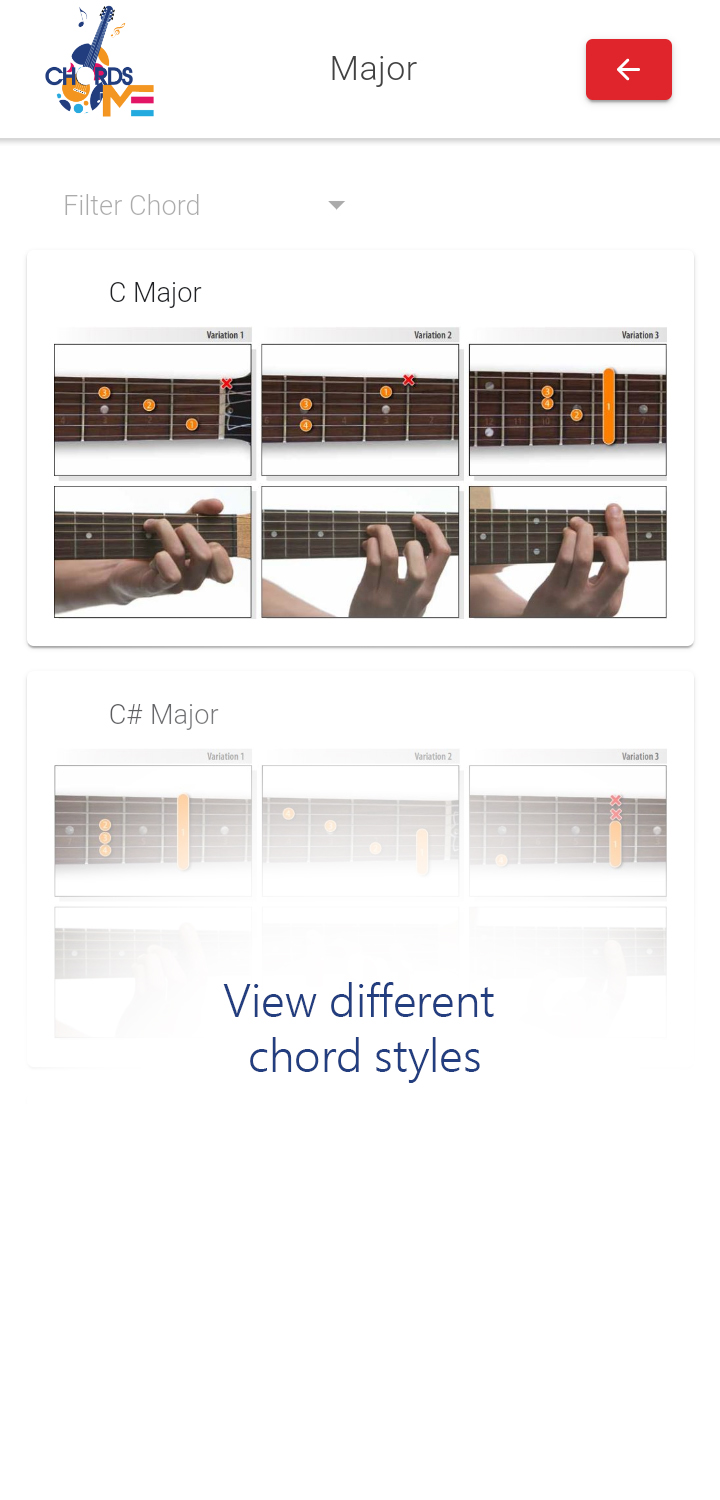
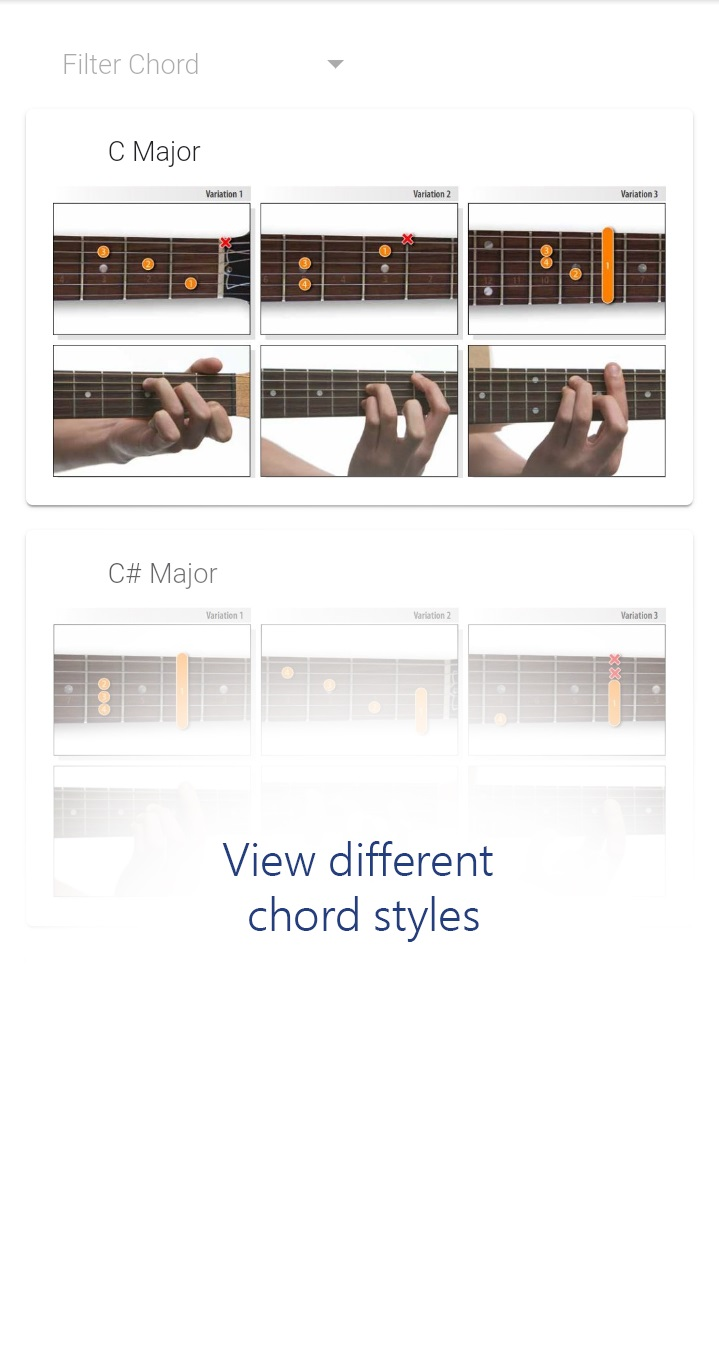
Update release

diff --git a/src/app/services/add-mob.service.ts b/src/app/services/add-mob.service.ts
@@ -1,44 +1,61 @@
-import { Injectable } from '@angular/core';
-import { AdMobFree, AdMobFreeBannerConfig, AdMobFreeInterstitialConfig, AdMobFreeRewardVideoConfig } from '@ionic-native/admob-free/ngx';
+import {Injectable} from '@angular/core';
+import {AdMobFree, AdMobFreeBannerConfig, AdMobFreeInterstitialConfig, AdMobFreeRewardVideoConfig} from '@ionic-native/admob-free/ngx';
 
 @Injectable({
-  providedIn: 'root'
+    providedIn: 'root'
 })
 export class AddMobService {
 
-  constructor(private adMob: AdMobFree) { }
+    constructor(private adMob: AdMobFree) {
+    }
 
-  bannerAdd() {
-    const bannerConfig: AdMobFreeBannerConfig = {
-      isTesting: false,
-      autoShow: true
-    };
-    this.adMob.banner.config(bannerConfig);
-    this.adMob.banner.prepare()
-        .then(() => {
-        }).catch(() => {
-    });
-  }
-  interstitialAdd() {
-    const interstitialConfig: AdMobFreeInterstitialConfig = {
-      isTesting: false,
-      autoShow: true
-    };
-    this.adMob.interstitial.config(interstitialConfig);
-    this.adMob.interstitial.prepare()
-        .then(() => {
-        }).catch(() => {
-    });
-  }
-  rewardVideoAdd() {
-    const rewardVideoConfig: AdMobFreeRewardVideoConfig = {
-      isTesting: false,
-      autoShow: true
-    };
-    this.adMob.rewardVideo.config(rewardVideoConfig);
-    this.adMob.rewardVideo.prepare()
-        .then(() => {
-        }).catch(() => {
-    });
-  }
+    bannerAdd() {
+        const bannerConfig: AdMobFreeBannerConfig = {
+            isTesting: false,
+            autoShow: true
+        };
+        this.adMob.banner.config(bannerConfig);
+        this.adMob.banner.prepare()
+            .then(() => {
+            }).catch(() => {
+        });
+        this.adMob.banner.show()
+            .then(() => {
+            }).catch(() => {
+        });
+    }
+
+    interstitialAdd() {
+        const interstitialConfig: AdMobFreeInterstitialConfig = {
+            id: 'ca-app-pub-5644153964390331/9670048916',
+            isTesting: false,
+            autoShow: true
+        };
+        this.adMob.interstitial.config(interstitialConfig);
+        this.adMob.interstitial.prepare()
+            .then(() => {
+                this.adMob.interstitial.show()
+                    .then(() => {
+                    }).catch(() => {
+                });
+            }).catch(() => {
+        });
+    }
+
+    rewardVideoAdd() {
+        const rewardVideoConfig: AdMobFreeRewardVideoConfig = {
+            id: 'ca-app-pub-5644153964390331/6649133907',
+            isTesting: false,
+            autoShow: true
+        };
+        this.adMob.rewardVideo.config(rewardVideoConfig);
+        this.adMob.rewardVideo.prepare()
+            .then(() => {
+                this.adMob.rewardVideo.show()
+                    .then(() => {
+                    }).catch(() => {
+                });
+            }).catch(() => {
+        });
+    }
 }

diff --git a/src/app/app.module.ts b/src/app/app.module.ts
@@ -13,7 +13,7 @@ import {AngularFireModule} from '@angular/fire';
 import {AngularFirestoreModule} from '@angular/fire/firestore';
 import {environment} from '../environments/environment';
 import {BrowserAnimationsModule} from '@angular/platform-browser/animations';
-import {MatButtonModule, MatCardModule, MatDialogModule} from '@angular/material';
+import {MatButtonModule, MatCardModule, MatDialogModule, MatIconModule} from '@angular/material';
 import {ProgressDialogComponent} from './shared/progress-dialog/progress-dialog.component';
 import {LessonChordComponent} from './shared/lesson-chord/lesson-chord.component';
 import {FlexModule} from '@angular/flex-layout';
@@ -21,10 +21,11 @@ import {FormsModule} from '@angular/forms';
 import {HttpClientModule} from '@angular/common/http';
 import {NgImageFullscreenViewModule} from 'ng-image-fullscreen-view';
 import { AdMobFree } from '@ionic-native/admob-free/ngx';
+import {ZoomComponent} from './shared/chord/zoom/zoom.component';
 
 @NgModule({
-  declarations: [AppComponent, ChordComponent, ProgressDialogComponent, LessonChordComponent],
-  entryComponents: [ChordComponent, ProgressDialogComponent, LessonChordComponent],
+  declarations: [AppComponent, ChordComponent, ProgressDialogComponent, LessonChordComponent, ZoomComponent],
+  entryComponents: [ChordComponent, ProgressDialogComponent, LessonChordComponent, ZoomComponent],
     imports: [BrowserModule,
         BrowserAnimationsModule,
         IonicModule.forRoot(),
@@ -34,7 +35,7 @@ import { AdMobFree } from '@ionic-native/admob-free/ngx';
         MatButtonModule,
         HttpClientModule,
         NgImageFullscreenViewModule,
-        AppRoutingModule, MatCardModule, FlexModule, FormsModule],
+        AppRoutingModule, MatCardModule, FlexModule, FormsModule, MatIconModule],
   providers: [
     StatusBar,
     SplashScreen,

diff --git a/src/app/shared/chord/chord.component.ts b/src/app/shared/chord/chord.component.ts
@@ -3,6 +3,8 @@ import {ModalController} from '@ionic/angular';
 import {Chord} from '../../model/chord';
 import {NotificationService} from '../../services/notification.service';
 import {AddMobService} from '../../services/add-mob.service';
+import {ZoomComponent} from './zoom/zoom.component';
+import {ZoomService} from '../../services/zoom.service';
 
 @Component({
   selector: 'app-chord',
@@ -13,22 +15,16 @@ export class ChordComponent implements OnInit {
 
   constructor(private modalController: ModalController,
               private adMobService: AddMobService,
-              private notifyService: NotificationService) { }
+              public zoomService: ZoomService,
+              private notifyService: NotificationService) {}
   keys = ['Ab', 'A', 'Bb', 'B', 'C', 'C#', 'D', 'Eb', 'E', 'F', 'F#', 'G'];
-  size = 13;
   chords: Chord;
   @Input() data: Chord;
-  ngOnInit() {
+  async ngOnInit() {
     if (this.data) {
       this.chords = this.data;
     }
-  }
-  zoomIn() {
-    this.size += 1;
-  }
-  zoomOut() {
-    this.size -= 1;
-    this.adMobService.interstitialAdd();
+    this.onZoomLoad();
   }
 
   goBack() {
@@ -51,5 +47,15 @@ export class ChordComponent implements OnInit {
   transposeTo(key) {
     this.adMobService.interstitialAdd();
     this.notifyService.info('Transpose will coming soon!');
+  }
+
+  async onZoomLoad() {
+    const modal = await this.modalController.create({
+      component: ZoomComponent,
+      cssClass: 'zoom-dialog'
+    });
+    modal.onDidDismiss().then(data => {
+    });
+    return await modal.present();
   }
 }

diff --git a/src/app/shared/chord/chord.component.html b/src/app/shared/chord/chord.component.html
@@ -6,22 +6,18 @@
 <ion-content class="ion-padding">
   <ion-list>
     <ion-item>
-      <pre [ngStyle]="{ 'font-size': (size+'px'), 'font-weight': 'bold' }">
+      <pre [ngStyle]="{ 'font-size': (this.zoomService.size+'px'), 'font-weight': 'bold' }">
 Song : {{chords?.song}}
 Artist : {{chords?.singer}}
 Key : {{chords?.key}}
 Beat : {{chords?.beat}}
 
 Transpose : <button (click)="transposeTo(key)" [ngClass]="checkKey(key) ? 'highlight' : 'not-highlight'"
-                    [ngStyle]="{ 'font-size': (size+'px') }" color="warning" *ngFor="let key of keys">{{key}}</button>
+                    [ngStyle]="{ 'font-size': (this.zoomService.size+'px') }" color="warning" *ngFor="let key of keys">{{key}}</button>
       </pre>
     </ion-item>
-    <ion-item>
-      <ion-button color="ternary" (click)="zoomOut()"><ion-icon color="danger" name="remove"></ion-icon></ion-button>
-      <ion-button color="ternary" (click)="zoomIn()"><ion-icon color="warning" name="add"></ion-icon></ion-button>
-    </ion-item>
-    <ion-item>
-      <pre [ngStyle]="{ 'font-size': (size+'px') }">
+    <ion-item (click)="onZoomLoad()">
+      <pre [ngStyle]="{ 'font-size': (this.zoomService.size+'px') }">
         {{chords?.chords}}
       </pre>
     </ion-item>

diff --git a/src/app/shared/chord/zoom/zoom.component.ts b/src/app/shared/chord/zoom/zoom.component.ts
@@ -1,0 +1,39 @@
+import { Component, OnInit } from '@angular/core';
+import {MatIconRegistry} from '@angular/material';
+import {DomSanitizer} from '@angular/platform-browser';
+import {ZoomService} from '../../../services/zoom.service';
+import {AddMobService} from '../../../services/add-mob.service';
+
+@Component({
+  selector: 'app-zoom',
+  templateUrl: './zoom.component.html',
+  styleUrls: ['./zoom.component.scss'],
+})
+export class ZoomComponent implements OnInit {
+
+  constructor(private iconRegistry: MatIconRegistry,
+              public zoomService: ZoomService,
+              public adMobService: AddMobService,
+              private sanitizer: DomSanitizer) {
+    iconRegistry.addSvgIcon(
+        'plus',
+        sanitizer.bypassSecurityTrustResourceUrl('assets/icons/zoom_in-24px.svg'));
+    iconRegistry.addSvgIcon(
+        'minus',
+        sanitizer.bypassSecurityTrustResourceUrl('assets/icons/zoom_out-24px.svg'));
+  }
+
+  ngOnInit() {
+  }
+
+  zoomIn() {
+    this.zoomService.size += 1;
+  }
+  zoomOut() {
+    this.zoomService.size -= 1;
+  }
+  onAdd() {
+    this.adMobService.interstitialAdd();
+  }
+
+}

diff --git a/src/app/instruction/instruction.page.html b/src/app/instruction/instruction.page.html
@@ -1,3 +1,26 @@
+<ion-header>
+    <ion-toolbar>
+        <ion-title>
+            <div fxLayout="row">
+                <div fxFlex="20%">
+                    <img src="assets/images/logo2.png" width="80">
+                </div>
+
+                <div fxFlex="80%">
+                    <div fxLayout="row">
+                        <div fxFlex="80%" style="margin-top: 30px; text-align: center;">
+                            Instructions
+                        </div>
+                        <div fxFlex="20%" style="margin-top: 20px;">
+                            <ion-button color="warning" (click)="goToMain()"><ion-icon name="home"></ion-icon> </ion-button>
+                        </div>
+                    </div>
+                </div>
+            </div>
+        </ion-title>
+    </ion-toolbar>
+</ion-header>
+
 <ion-content [fullscreen]="true" #span>
     <ion-slides pager (ionSlideDidChange)="slideChanged()">
         <ion-slide>

diff --git a/src/app/home/home.page.html b/src/app/home/home.page.html
@@ -25,7 +25,7 @@
                 <img src="assets/images/slides/slide1.jpg" alt=""/>
             </ion-slide>
             <ion-slide>
-                <img src="assets/images/slides/slide6.jpg" alt=""/>
+                <img src="assets/images/slides/slide9.jpg" alt=""/>
             </ion-slide>
             <ion-slide>
                 <img src="assets/images/slides/slide3.jfif" alt=""/>
@@ -43,4 +43,6 @@
         </ion-card-content>
     </ion-card>
     <img (click)="onAdMob()" #img src="assets/images/logo2.png" class="img">
+    <ion-infinite-scroll scrollX="true" scrollY="true">
+    </ion-infinite-scroll>
 </ion-content>

diff --git a/src/app/instruction/instruction.module.ts b/src/app/instruction/instruction.module.ts
@@ -7,14 +7,16 @@ import { IonicModule } from '@ionic/angular';
 import { InstructionPageRoutingModule } from './instruction-routing.module';
 
 import { InstructionPage } from './instruction.page';
+import {FlexModule} from '@angular/flex-layout';
 
 @NgModule({
-  imports: [
-    CommonModule,
-    FormsModule,
-    IonicModule,
-    InstructionPageRoutingModule
-  ],
+    imports: [
+        CommonModule,
+        FormsModule,
+        IonicModule,
+        InstructionPageRoutingModule,
+        FlexModule
+    ],
   declarations: [InstructionPage]
 })
 export class InstructionPageModule {}

diff --git a/src/app/instruction/instruction.page.ts b/src/app/instruction/instruction.page.ts
@@ -33,4 +33,9 @@ export class InstructionPage implements OnInit {
         localStorage.setItem('isFirst', 'n');
         this.navCtrl.navigateRoot('main/tabs/home');
     }
+
+    goToMain() {
+        localStorage.setItem('isFirst', 'n');
+        this.navCtrl.navigateRoot('main/tabs/home');
+    }
 }

diff --git a/src/app/services/zoom.service.ts b/src/app/services/zoom.service.ts
@@ -1,0 +1,17 @@
+import { Injectable } from '@angular/core';
+
+@Injectable({
+  providedIn: 'root'
+})
+export class ZoomService {
+
+  private zoom = 13;
+  constructor() { }
+
+  get size() {
+    return this.zoom;
+  }
+  set size(num: number) {
+    this.zoom = num;
+  }
+}

diff --git a/src/global.scss b/src/global.scss
@@ -61,3 +61,13 @@ ion-loading.transparent {
   position: fixed;
   margin-bottom: 40px;
 }
+.zoom-dialog {
+  .modal-wrapper {
+    width: 15%;
+    left: 88%;
+    height: 15%;
+    top: 10%;
+    position: sticky;
+    background: rgba(255,255,255,0.9);
+  }
+}

diff --git a/src/app/shared/chord/zoom/zoom.component.html b/src/app/shared/chord/zoom/zoom.component.html
@@ -1,0 +1,2 @@
+<button class="zoom-btn" color="primary" mat-fab (click)="zoomIn()"><mat-icon svgIcon="plus"></mat-icon></button>
+<button class="zoom-btn" color="accent" mat-fab (click)="zoomOut()"><mat-icon svgIcon="minus"></mat-icon></button>
